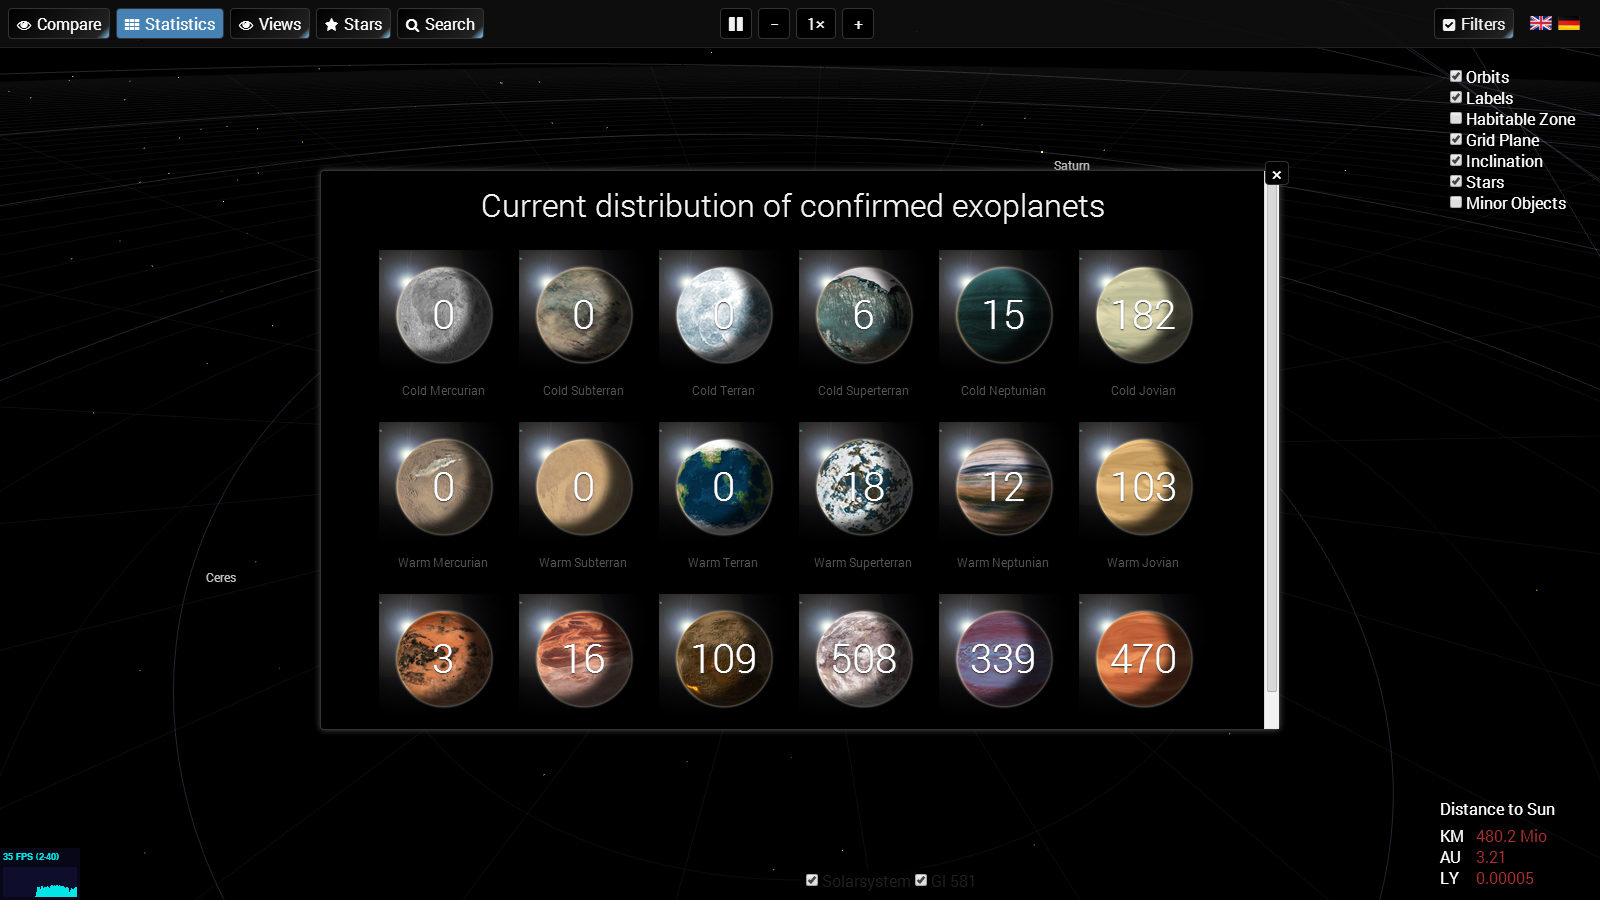
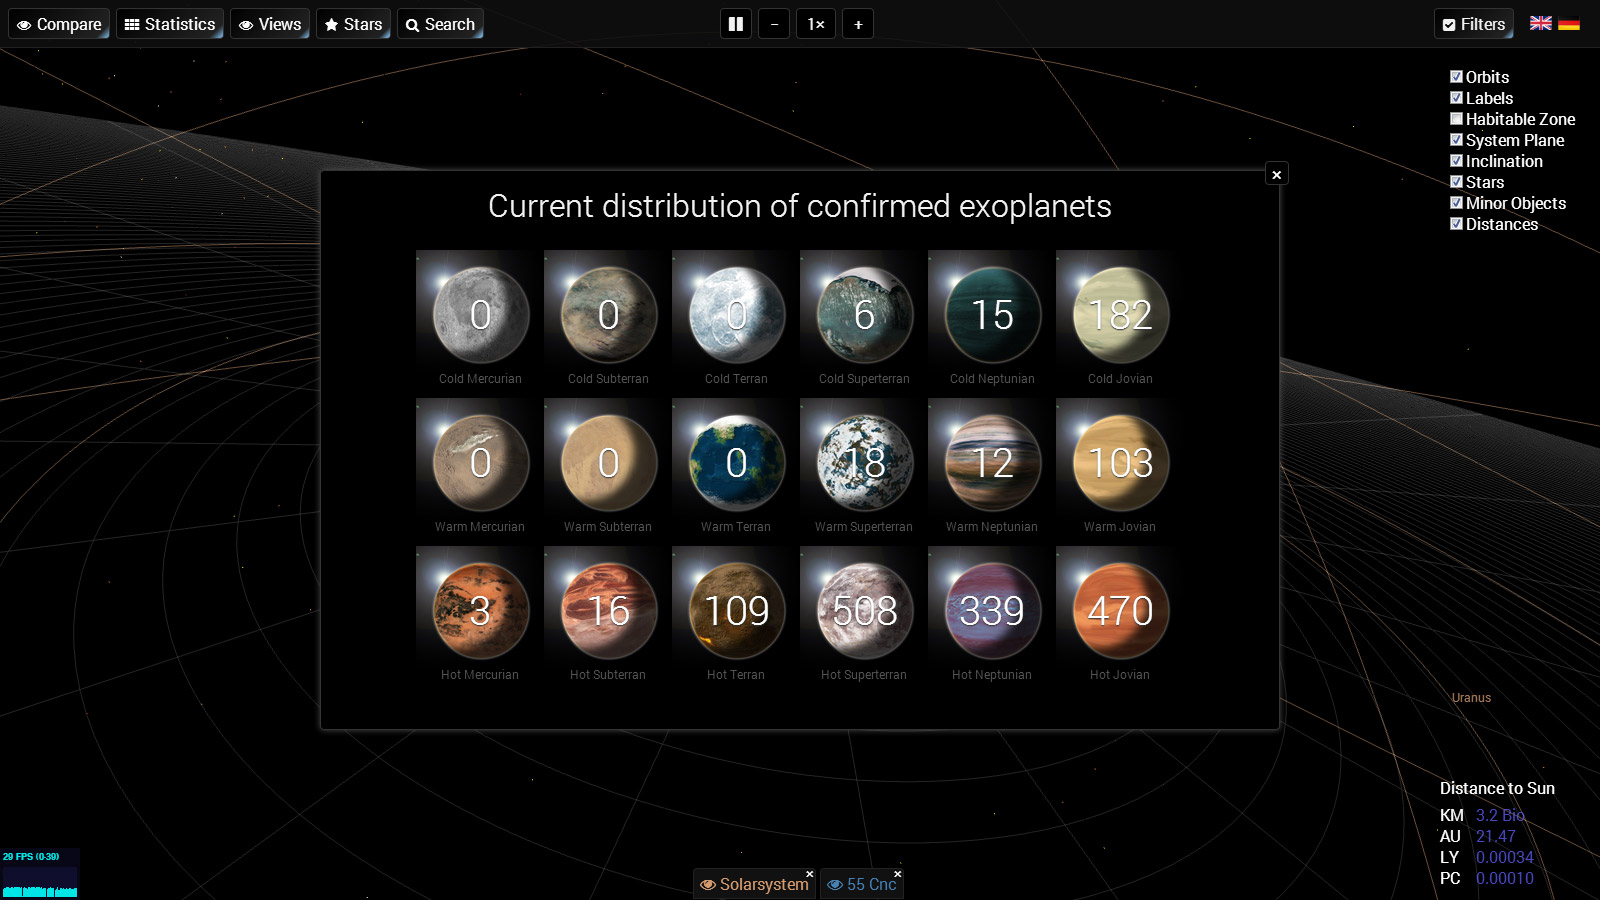
changed loadable systems on popup, changed screens

diff --git a/app/js/templates/startdialog.html b/app/js/templates/startdialog.html
@@ -4,9 +4,9 @@
 
     <br/>
     <p>
-    Welcome to ExoPlanetSystems - a web application to visualize planet systems.
-    It's an approach to show planet systems and their bodies in an interactive and animated way. 
-    You can use the menu on top to get more information or filter the scene to change its appearance. Use your mouse to change scene perspective and zoom. Change the speed by using + and - buttons.
+      Welcome to ExoPlanetSystems - a web application to visualize planet systems.
+      It's an approach to show planet systems and their bodies in an interactive and animated way. 
+      You can use the menu on top to get more information or filter the scene to change its appearance. Use your mouse to change scene perspective and zoom. Change the speed by using + and - buttons.
     </p>
 
     <p>
@@ -44,7 +44,7 @@
     </p>
 
     <p>
-      The speed is set to 1 second in real time represents 2 days in the simulation. You can change the simulation speed by using
+      The speed is set so the bodies are not to fast or to slow. You can adjust it by using
       the "-" and "+" buttons.
     </p>
   </div>
@@ -73,40 +73,44 @@
       <table>
         <tr class="th">
           <td>System</td>
-          <td>Planets</td>
-          <td>habitable</td>
+          <td>Planets (in habitable zone)</td>
           <td>action</td>
         </tr>
 
         <tr>
-          <td><span rel="mu ara">Mu Ara</span></td>
-          <td><span>4</span></td>
-          <td><span>2</span></td>
-          <td><span rel="mu ara">show</span></td>
-        </tr>
-        <tr>
-          <td><span rel="kepler-46">Kepler-46</span></td>
-          <td><span>3</span></td>
-          <td><span>2</span></td>
-          <td><span rel="kepler-46">show</span></td>
-        </tr>
-        <tr>
           <td><span rel="47 uma">47 Ursa Majoris</span></td>
-          <td><span>3</span></td>
-          <td><span>-</span></td>
-          <td><span rel="47 uma">show</span></td>
+          <td><span>3 (-)</span></td>
+          <td><a href="#" rel="47 uma">load</a></td>
         </tr>
+
         <tr>
-          <td><span rel="gl 667">Gliese 667</span></td>
-          <td><span>6</span></td>
-          <td><span>3</span></td>
-          <td><span rel="gl 667">show</span></td>
+          <td><span rel="mu ara">Mu Ara</span></td>
+          <td><span>4 (0)</span></td>
+          <td><a href="#" rel="mu ara">load</a></td>
         </tr>
+        
         <tr>
-          <td><span rel="kepler-296">Kepler-296</span></td>
-          <td><span>5</span></td>
-          <td><span>1</span></td>
-          <td><span rel="kepler-296">show</span></td>
+          <td><span rel="gl 581">Gliese 581</span></td>
+          <td><span>4 (1)</span></td>
+          <td><a href="#" rel="gl 581">load</a></td>
+        </tr>
+
+        <tr>
+          <td><span rel="kepler-62">kepler-62</span></td>
+          <td><span>5 (2)</span></td>
+          <td><a href="#" rel="kepler-62">load</a></td>
+        </tr>
+
+        <tr>
+          <td><span rel="gj 667c">Gliese 667</span></td>
+          <td><span>6 (3)</span></td>
+          <td><a href="#" rel="gj 667c">load</a></td>
+        </tr>
+
+        <tr>
+          <td><span rel="kepler-90">Kepler-90</span></td>
+          <td><span>7 (-)</span></td>
+          <td><a href="#" rel="kepler-90">load</a></td>
         </tr>
 
       </table>

diff --git a/index.html b/index.html
@@ -84,8 +84,7 @@
 
         <p>
           The application is created with modern web technologies like Three.js WebGL, CSS3 and HTML5.
-          Since these technologies are not yet supported by all major Browsers please make sure to use a modern Browser
-          like Google Chrome, Mozilla Firefox oder Internet Explorer 11
+          Since these technologies are not yet supported by all major Browsers please make sure to use a modern Browser with its latest version like Google Chrome, Mozilla Firefox, Opera, Safari or Internet Explorer 11. 
         </p>
       </div>
 
@@ -94,12 +93,14 @@
         <h3>Features</h3>
 
         <ul class="feature-list">
+          <li>3D View of Planet Systems</li>
+          <li>See Stars, Planets, Dwarf-Planets and Moons</li>
           <li>Animated Solar System</li>
           <li>Investigate Exoplanet Systems</li>
           <li>Load & Compare Planet Systems</li>
           <li>Change 3D Perspective of the Scene</li>
-          <li>Render Screenshots For Personal Use</li>
-          <li>Show Habitable Zones</li>
+          <li>Compare Exoplanet and Star Sizes</li>
+          <li>Investigate Habitable Zones</li>
           <li>Get Detailed Information of Exoplanets</li>
         </ul>
 

diff --git a/app/js/lang/de.js b/app/js/lang/de.js
@@ -7,8 +7,8 @@
 
 	"Stars": "Sterne",
 	"Planets": "Planeten",
-	"Default": "Standard",
-	"Top": "Oben",
+	"Default View (3D)": "Standard-Perspektive (3D)",
+	"From Top (2D)": "Sicht von Oben (2D)",
 
 	"Exoplanet Visualization": "Exoplaneten Visualisierung",
 
@@ -22,6 +22,7 @@
 	"System Plane": "Koordinatennetz",
 	"Inclination": "Inklination",
 	"Minor Objects": "Kleine Objekte",
+	"Distances": "Distanzen",
 
 	"Distance to Sun": "Entfernung Sonne",
 	"AU": "AE",
@@ -30,5 +31,11 @@
 	"Solarsystem": "Sonnensystem",
 
 	"Mercury": "Merkur",
-	"Earth": "Erde"
+	"Earth": "Erde",
+
+	"Current distribution of confirmed exoplanets": "Aktuelle Verteilung nachgewiesener Exoplaneten",
+
+	"Star planets": "Anzahl Planeten",
+	"Star distance": "Entfernung des Sterns (in LJ)"
+
 }]

diff --git a/app/js/models/language.js b/app/js/models/language.js
@@ -7,7 +7,7 @@ Language = function(){
 	this.tagNames = ['span', 'label', 'a', 'h1', 'h2', 'h3', 'h4'];
 
 	// add all attributes that should have translation capacities
-	this.attributeNames = ['title'];
+	this.attributeNames = ['title', 'value'];
 	
 	this.updateLanguage();
 
@@ -30,7 +30,7 @@ Language.prototype.updateLanguage = function(){
 	var $this = this;
 
 	$.ajax({
-		url: 'js/lang/' + $this.languageFile,
+		url: 'js/lang/' + $this.languageFile + '?date=' + Math.random(),
 		dataType: 'json',
 		error: function( e ){
 			console.log( e );
@@ -61,6 +61,9 @@ Language.prototype.updateLanguage = function(){
 					}
 					
 				});
+
+				// get the DOM with attributes
+				// var DOMelements = $('html').children().each()( tagName );
 
 			});
 

diff --git a/app/css/views/popup_view.css b/app/css/views/popup_view.css
@@ -74,13 +74,24 @@
 	border-top: 1px solid #404040;
 	background: #202020;
 	}
-.dialog-content p {
+.dialog-content p,
+.dialog-content h2,
+.dialog-content table {
 	padding: 0 6px;
 	}
 .dialog-content a {
 	color: steelblue;
 	text-decoration: none;
 	}
+
+.dialog-content table tr:nth-child(2n+1) {
+	background: #111;
+	}
+.dialog-content table tr td {
+	padding: 4px;
+	}
+
+
 
 .dialog-controls {
 	width: 100%;

diff --git a/app/js/views/popup_view.js b/app/js/views/popup_view.js
@@ -492,4 +492,16 @@ PopupView.init = function( object, type, html, ajaxUrl, cssOptions ) {
 		$('#popup').remove();
 	});
 
+
+	$(document).on('click', 'table td a', function( e ){
+		e.preventDefault();
+		
+		var systemName = $(this).attr('rel');
+
+		App.addSystem( systemName );
+
+		$('#popup').empty();
+		$('#popup').remove();
+	});
+
 };

diff --git a/app/js/app.js b/app/js/app.js
@@ -351,6 +351,7 @@ App.createSystem = function(){
 	];
 
 	// load planet systems dynamically
+	/*
 	setTimeout(function(){
 		$.ajax({
 		  dataType: "json",
@@ -362,6 +363,7 @@ App.createSystem = function(){
 		  }
 		});
 	}, 1000);
+	*/
 
 };
 

diff --git a/css/styles.css b/css/styles.css
@@ -158,7 +158,7 @@ ul#mainmenu li ul.submenu {
 	border-radius: 6px;
 	}
 #content ul.feature-list li:hover {
-	background: #66a2d4;
+	/*background: #66a2d4;*/
 	}
 
 
